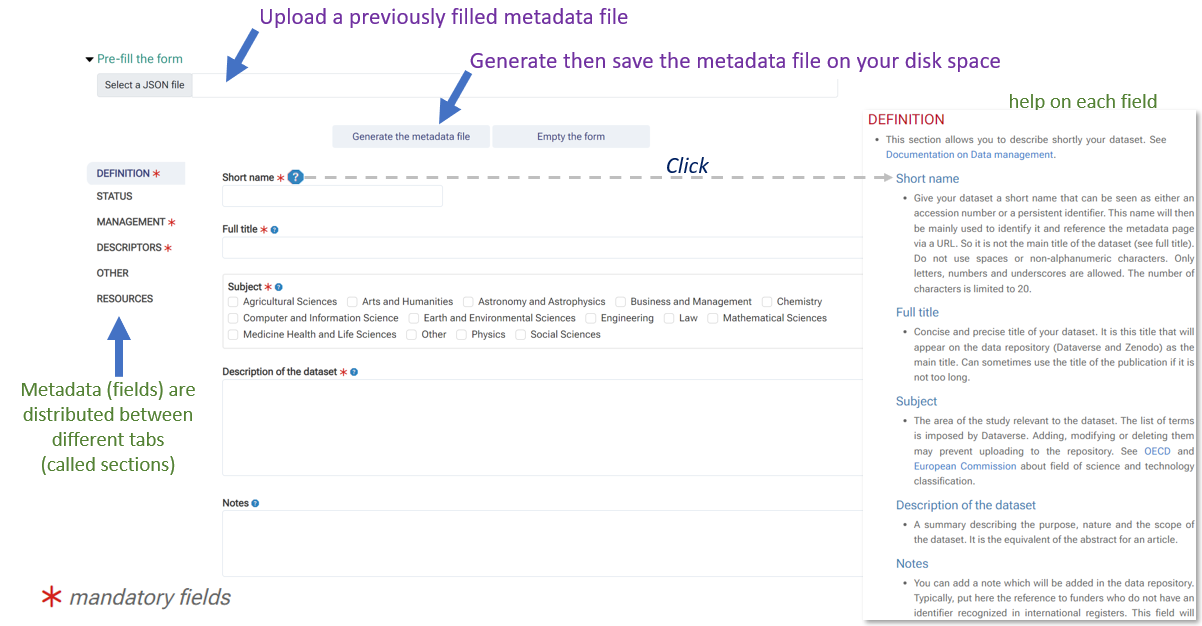
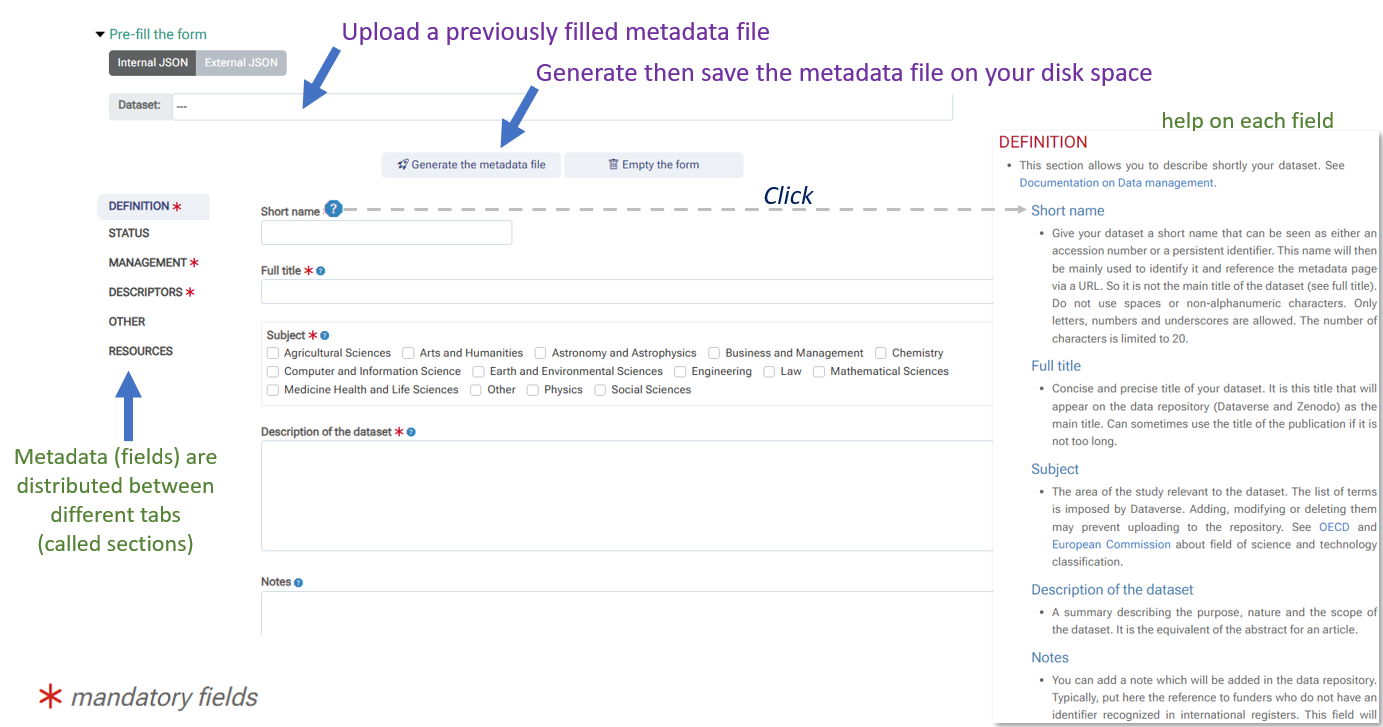
update

diff --git a/docs/installation.md b/docs/installation.md
@@ -221,11 +221,11 @@ When updating the application, it is imperative to preserve a whole set of confi
 ### Architecture diagram
 
 <center>
-<a href="../images/schema.png" data-lightbox="fig0"><img src="../images/schema.png" width="800px"></a>
-</center><br>
+<a href="../images/schema.png" data-lightbox="fig0"><img src="../images/schema.png" width="800px"></a><br>
+<b><i>Note:</i></b>  <i>See how to do proceed for [configuration steps](../configuration).</i>
+</center>
 
-**_Note:_**  _See how to do proceed for [configuration steps](../configuration)._
-
+<br>
 
 -----
 
@@ -234,11 +234,9 @@ When updating the application, it is imperative to preserve a whole set of confi
 You can provide access to your data via a [file browser][25]{:target="_blank"}. This application must be [installed separately][26]{:target="_blank"} but can be connected to Maggot by specifying the corresponding URL in the [configuration file](../settings/#incconfigconfiginc). Users and their rights are managed in the filebrowser application. Likewise, we can also <a href="../images/filebrowser_fig2.png" data-lightbox="fig2">create links to the data without a password</a>. These links can be usefully specified as external resources in the metadata managed by Maggot.
 
 <center>
-<a href="../images/filebrowser_fig1.png" data-lightbox="fig10"><img src="../images/filebrowser_fig1.png" width="800px"></a>
-</center><br>
-
-_See how to do install in [github][26]{:target="_blank"}_
-
+<a href="../images/filebrowser_fig1.png" data-lightbox="fig10"><img src="../images/filebrowser_fig1.png" width="800px"></a><br>
+<i>See how to do install in [github][26]{:target="_blank"}</i>
+</center>
 
 <br>
 
@@ -254,9 +252,9 @@ The initial choice was not to manage users in the Maggot tool. This choice was m
 
 <center>
 <a href="../images/sso_oauth2.png" data-lightbox="fig11"><img src="../images/sso_oauth2.png" width="800px"></a>
-</center><br>
+<p style="text-align:center;"><i>Keycloak supports OIDC (an extension to OAuth 2.0) and works as an IdP while authenticating a client</i></p>
+</center>
 
-_Keycloak supports OIDC (an extension to OAuth 2.0) and works as an IdP while authenticating a client._
 
 
 <br>

diff --git a/docs/tutorial/describe.md b/docs/tutorial/describe.md
@@ -29,7 +29,7 @@ When you enter the metadata entry module you should see a page that looks like t
 
 * All the fields (metadata) to be filled in are distributed between several tabs, also called sections. Each section tries to group together a set of fields relating to the same topic.
 
-* You can reload a previously created metadata file. All form fields will then be initialized with the value(s) defined in the metadata file.
+* You can reload a previously created metadata file either from your external disk or from the data storage space. All form fields will then be initialized with the value(s) defined in the metadata file.
 
 * You must at least complete the mandatory fields marked with a red star.
 
